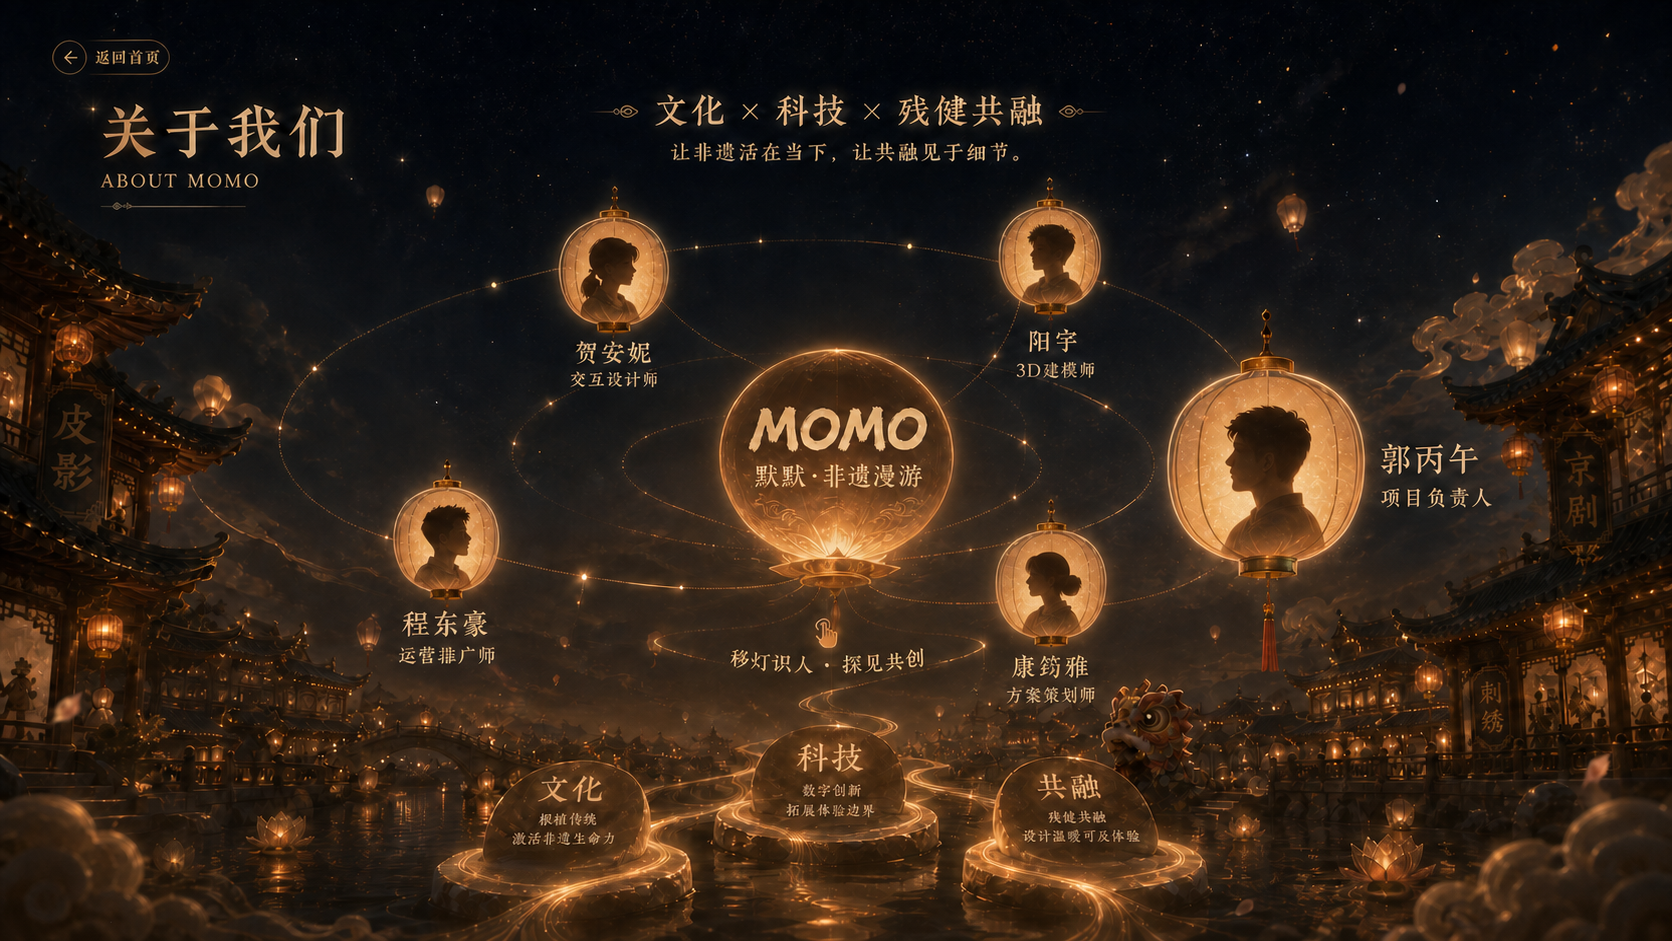
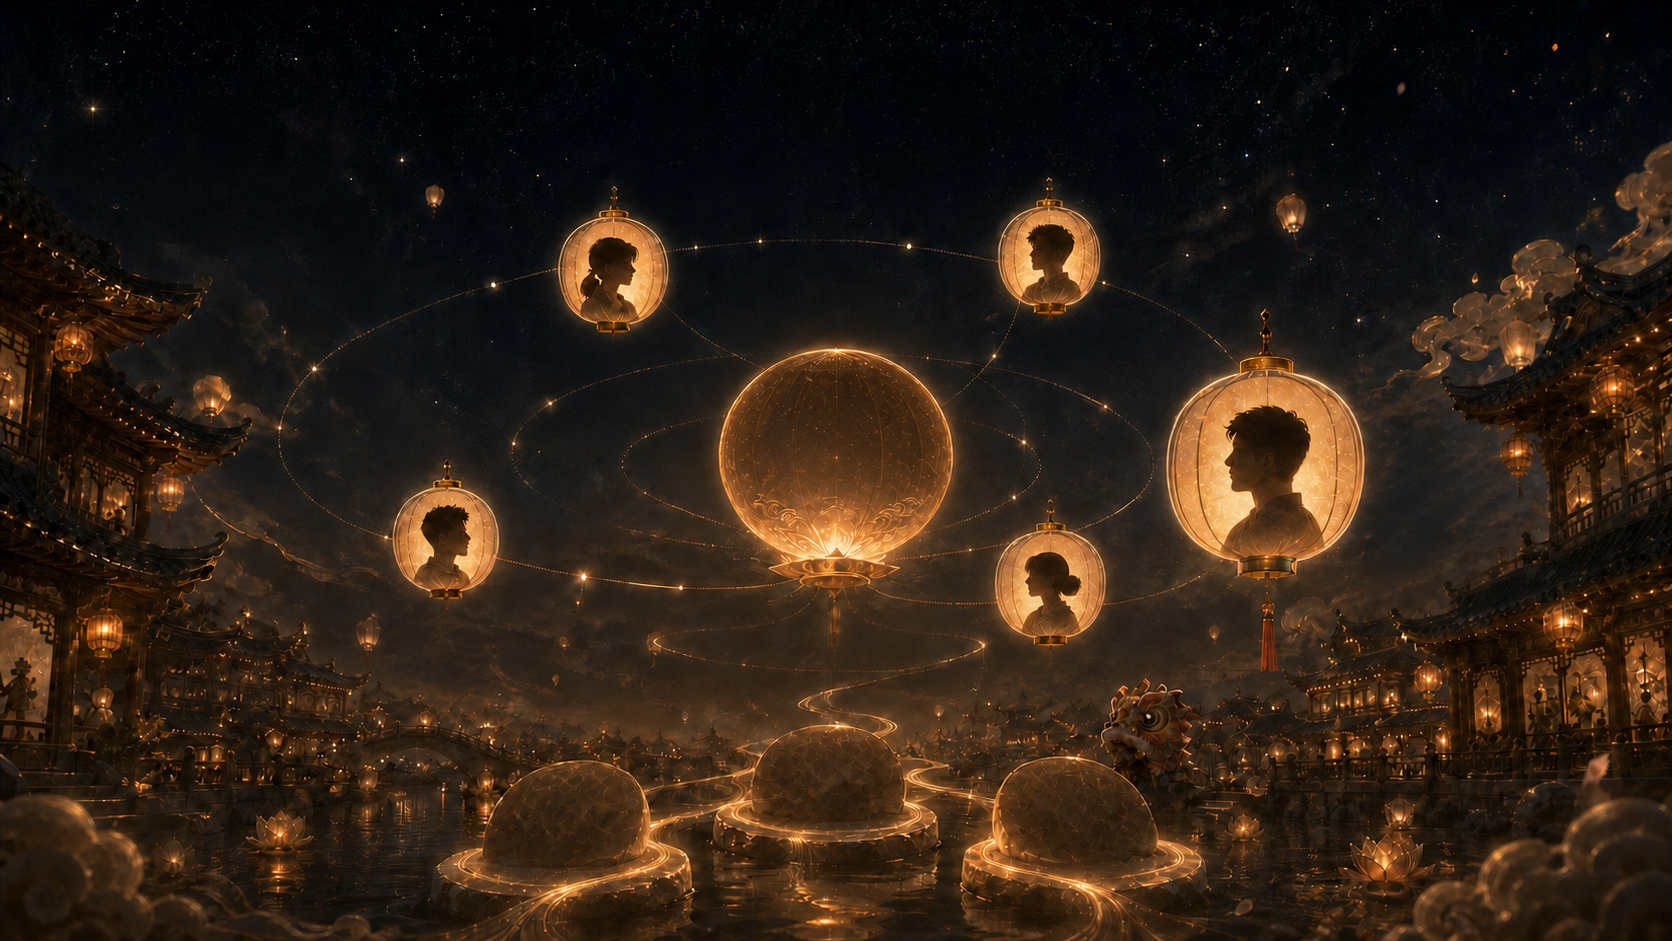
Rebuild about page as interactive text-safe layout

diff --git a/styles.css b/styles.css
@@ -580,6 +580,75 @@ button { font: inherit; color: inherit; }
 .scene-about .member-kang { left: 57%; right: auto; top: 48%; }
 .scene-about .member-guo { left: 69.5%; right: auto; top: 29%; width: 17%; height: 38%; }
 
+/* 交互版：插画只承载场景与人物，全部信息使用可校正的网页文字。 */
+.scene-about .about-shade { display: block; background: linear-gradient(180deg, rgba(2,6,14,.16), transparent 30% 82%, rgba(3,3,7,.16)); }
+.scene-about .about-nav { opacity: 1; }
+.scene-about .about-title,
+.scene-about .about-heading,
+.scene-about .about-philosophy,
+.scene-about .about-hint { display: block; }
+.scene-about .about-title { left: 5.2%; top: 9.5%; }
+.scene-about .about-heading { top: 8.8%; }
+.scene-about .momo-core {
+  display: flex;
+  flex-direction: column;
+  align-items: center;
+  justify-content: center;
+  left: 50%;
+  top: 47.2%;
+  width: 25%;
+  aspect-ratio: auto;
+  border: 0;
+  background: transparent;
+  box-shadow: none;
+}
+.scene-about .momo-core::after { display: none; }
+.scene-about .momo-core b { font-family: "Liu Jian Mao Cao", "STKaiti", "KaiTi", serif; font-size: clamp(36px, 4vw, 66px); }
+.scene-about .momo-core span { margin-top: .42em; font-size: clamp(10px, .9vw, 15px); }
+.scene-about .orbit-line { display: none; }
+.scene-about .member-lantern {
+  color: #f7d791;
+  border-radius: 50%;
+  transition: opacity .35s, filter .35s, box-shadow .35s, transform .35s;
+}
+.scene-about .member-lantern > * { opacity: 1; }
+.scene-about .member-lantern .lantern-portrait { display: none; }
+.scene-about .member-lantern b,
+.scene-about .member-lantern small {
+  position: absolute;
+  left: 50%;
+  translate: -50% 0;
+  width: 150%;
+  margin: 0;
+  color: #f7d791;
+  text-shadow: 0 3px 15px rgba(0,0,0,.95);
+}
+.scene-about .member-lantern b { bottom: 5%; font-size: clamp(14px, 1.45vw, 23px); }
+.scene-about .member-lantern small { bottom: -7%; color: rgba(255,226,170,.88); font-size: clamp(9px, .74vw, 13px); }
+.scene-about .member-lantern:hover,
+.scene-about .member-lantern:focus-visible,
+.scene-about .member-lantern.is-current {
+  box-shadow: 0 0 26px rgba(255,190,77,.22), inset 0 0 34px rgba(255,201,103,.1);
+  background: radial-gradient(circle, rgba(255,205,116,.08), transparent 68%);
+}
+.scene-about .team-orbit:has(.member-lantern.is-current) .member-lantern:not(.is-current) { opacity: .76; filter: saturate(.78) brightness(.86); }
+.scene-about .member-annie { left: 31%; top: 18%; width: 11%; height: 22%; }
+.scene-about .member-yang { left: 57.4%; top: 17%; width: 11%; height: 22%; }
+.scene-about .member-cheng { left: 21.2%; top: 44%; width: 11.5%; height: 23%; }
+.scene-about .member-kang { left: 57.4%; top: 48%; width: 11.5%; height: 23%; }
+.scene-about .member-guo { left: 69.5%; top: 31%; width: 15.5%; height: 35%; }
+.scene-about .member-guo b,
+.scene-about .member-guo small { left: 105%; translate: 0 0; width: 95%; text-align: left; }
+.scene-about .member-guo b { bottom: 43%; }
+.scene-about .member-guo small { bottom: 33%; }
+.scene-about .about-philosophy {
+  display: flex;
+  bottom: 6.4%;
+  width: 57%;
+  gap: clamp(70px, 9vw, 150px);
+}
+.scene-about .about-hint { bottom: 27.4%; }
+
 .archive-scene {
   overflow: hidden;
 }

diff --git a/index.html b/index.html
@@ -106,7 +106,7 @@
         <header class="archive-nav about-nav">
           <button class="icon-button" data-go="hub" type="button" aria-label="返回功能导航">←</button>
           <span></span>
-          <span class="about-team-label">团队成员</span>
+          <span></span>
         </header>
         <div class="about-title"><h1>关于我们</h1><span>ABOUT MOMO</span></div>
         <div class="about-heading">
@@ -121,7 +121,7 @@
           <button class="member-lantern member-yang" type="button" data-member="yang" aria-pressed="false"><span class="lantern-portrait is-male" aria-hidden="true"><i>阳</i></span><b>阳宇</b><small>3D建模师</small></button>
           <button class="member-lantern member-cheng" type="button" data-member="cheng" aria-pressed="false"><span class="lantern-portrait is-male" aria-hidden="true"><i>程</i></span><b>程东豪</b><small>运营推广师</small></button>
           <button class="member-lantern member-kang" type="button" data-member="kang" aria-pressed="false"><span class="lantern-portrait is-female" aria-hidden="true"><i>康</i></span><b>康筠雅</b><small>方案策划师</small></button>
-          <button class="member-lantern member-guo is-current" type="button" data-member="guo" aria-pressed="true"><span class="lantern-portrait is-male" aria-hidden="true"><i>郭</i></span><b>郭丙午</b><small>项目负责人</small><em>当前成员</em></button>
+          <button class="member-lantern member-guo is-current" type="button" data-member="guo" aria-pressed="true"><span class="lantern-portrait is-male" aria-hidden="true"><i>郭</i></span><b>郭丙午</b><small>项目负责人</small></button>
         </div>
         <div class="about-philosophy" aria-label="设计理念">
           <article><b>文化</b><span>根植传统<br />激活非遗生命力</span></article>

diff --git a/design-qa.md b/design-qa.md
@@ -1,9 +1,8 @@
 # Design QA — 关于我们 / 灯火人物志
 
-- Source visual truth: `C:\Users\HE\.codex\generated_images\019fa2f1-cb9c-7be0-b4d7-824f91c58f27\exec-8251ce71-7725-422e-bef2-4ed3cdc97691.png`
-- Implementation screenshot: `D:\MoMoGPT\about-page-v58-exact.png`
-- Combined comparison: `D:\MoMoGPT\about-design-comparison-v58.png`
-- State: `?scene=about&v=58`, 郭丙午 selected
+- Source visual truth: `D:\MoMoGPT\about-page-v59-no-labels.png` plus the requirement that all visible copy remain editable HTML text
+- Implementation screenshot: `D:\MoMoGPT\about-page-v60-interactive.png`
+- State: `?scene=about&v=60`, 郭丙午 selected
 - Viewport: 1920 × 1080 CSS px and 1366 × 768 CSS px
 - Source pixels: 1672 × 935; implementation pixels: 1920 × 1080; device scale factor: 1
 - Normalization: source and implementation were both fitted to 960 × 540 in the combined comparison; full-size originals were separately inspected for text clarity.
@@ -14,23 +13,23 @@
 - Typography: title, slogan, member names and roles preserve the source's warm-gold hierarchy; small copy remains readable at both tested viewports.
 - Spacing and layout: five member lanterns remain inside the orbit and do not overlap persistent navigation or the philosophy row. The selected member is visually dominant.
 - Colors and tokens: dark-blue/black night field, warm gold, amber glow and restrained cinnabar-brown match the selected direction.
-- Image quality: the selected high-resolution visual is used directly, preserving the original portraits, lantern structure, orbit light and philosophy stones without CSS approximation.
-- Copy: all five supplied names and responsibilities are exact and rendered as HTML text.
+- Image quality: the text-free high-resolution illustration preserves the portraits, lantern structure, orbit light and philosophy stones; no generated typography remains in the background.
+- Copy: title, slogan, central identity, all five supplied names and responsibilities, interaction hint and philosophy copy are exact editable HTML text.
 
 ## Interaction and runtime checks
 
 - Production build completed successfully.
 - `script.js` passed syntax validation.
 - Direct route `?scene=about` rendered successfully in Edge at both viewports.
-- Five semantic member buttons are present; selected state uses `aria-pressed` and updates through the shared click handler.
+- Five semantic member buttons are present; selected state uses `aria-pressed`, updates through the shared click handler and exposes hover/focus/gesture-dwell highlight states.
 - Back navigation and hub “关于我们” entry use the existing `data-go` navigation system.
 - No page-breaking browser output was observed during screenshot capture.
 
 ## Comparison history
 
-1. Initial implementation: source comparison showed the lantern portraits, light paths and proportions had been approximated in CSS (P1).
-2. Fix: replaced the approximation with the exact selected visual and retained semantic transparent interaction regions over the five members.
-3. Post-fix evidence: `about-design-comparison-v58.png` shows the source and implementation are visually aligned at the same normalized viewport.
+1. Initial implementation: the selected mockup was used as one flattened image, leaving generated text errors and only transparent hotspots (P1).
+2. Fix: created a text-free visual layer, moved every visible label into HTML, and made the five member regions real semantic controls with active states.
+3. Post-fix evidence: `about-page-v60-interactive.png` shows clean typography aligned to the five portraits and three philosophy stones, with no baked-in labels.
 
 ## Follow-up polish
 
